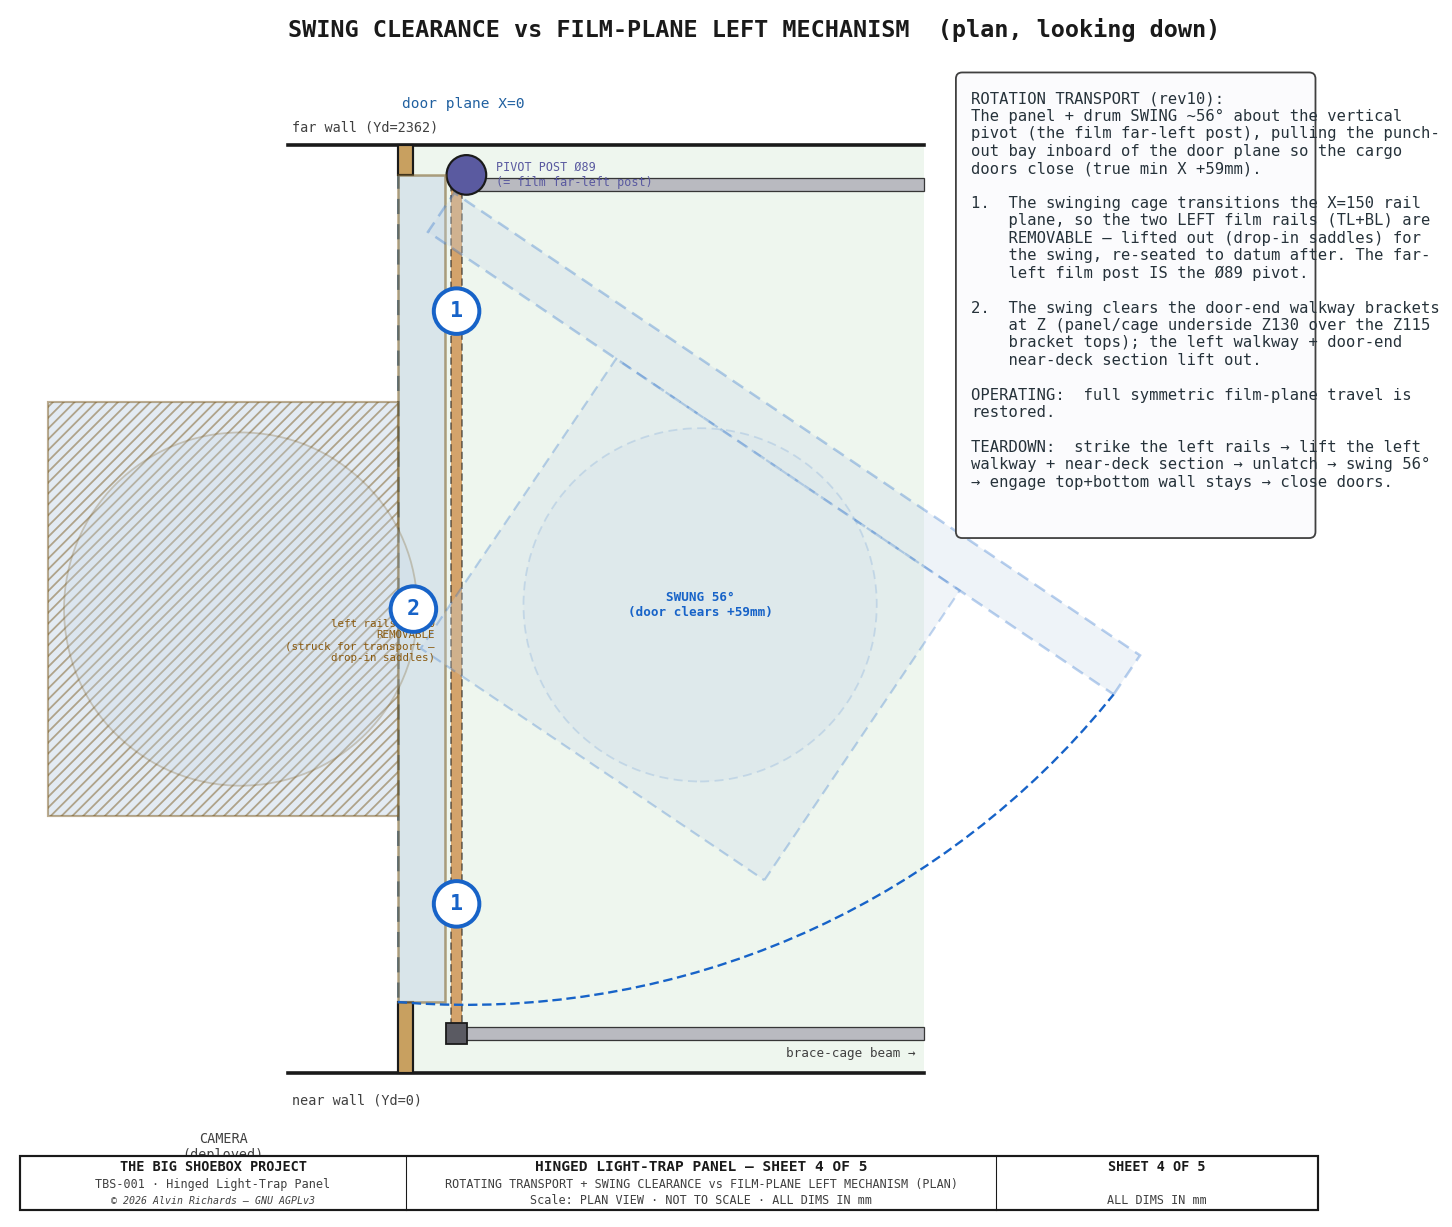
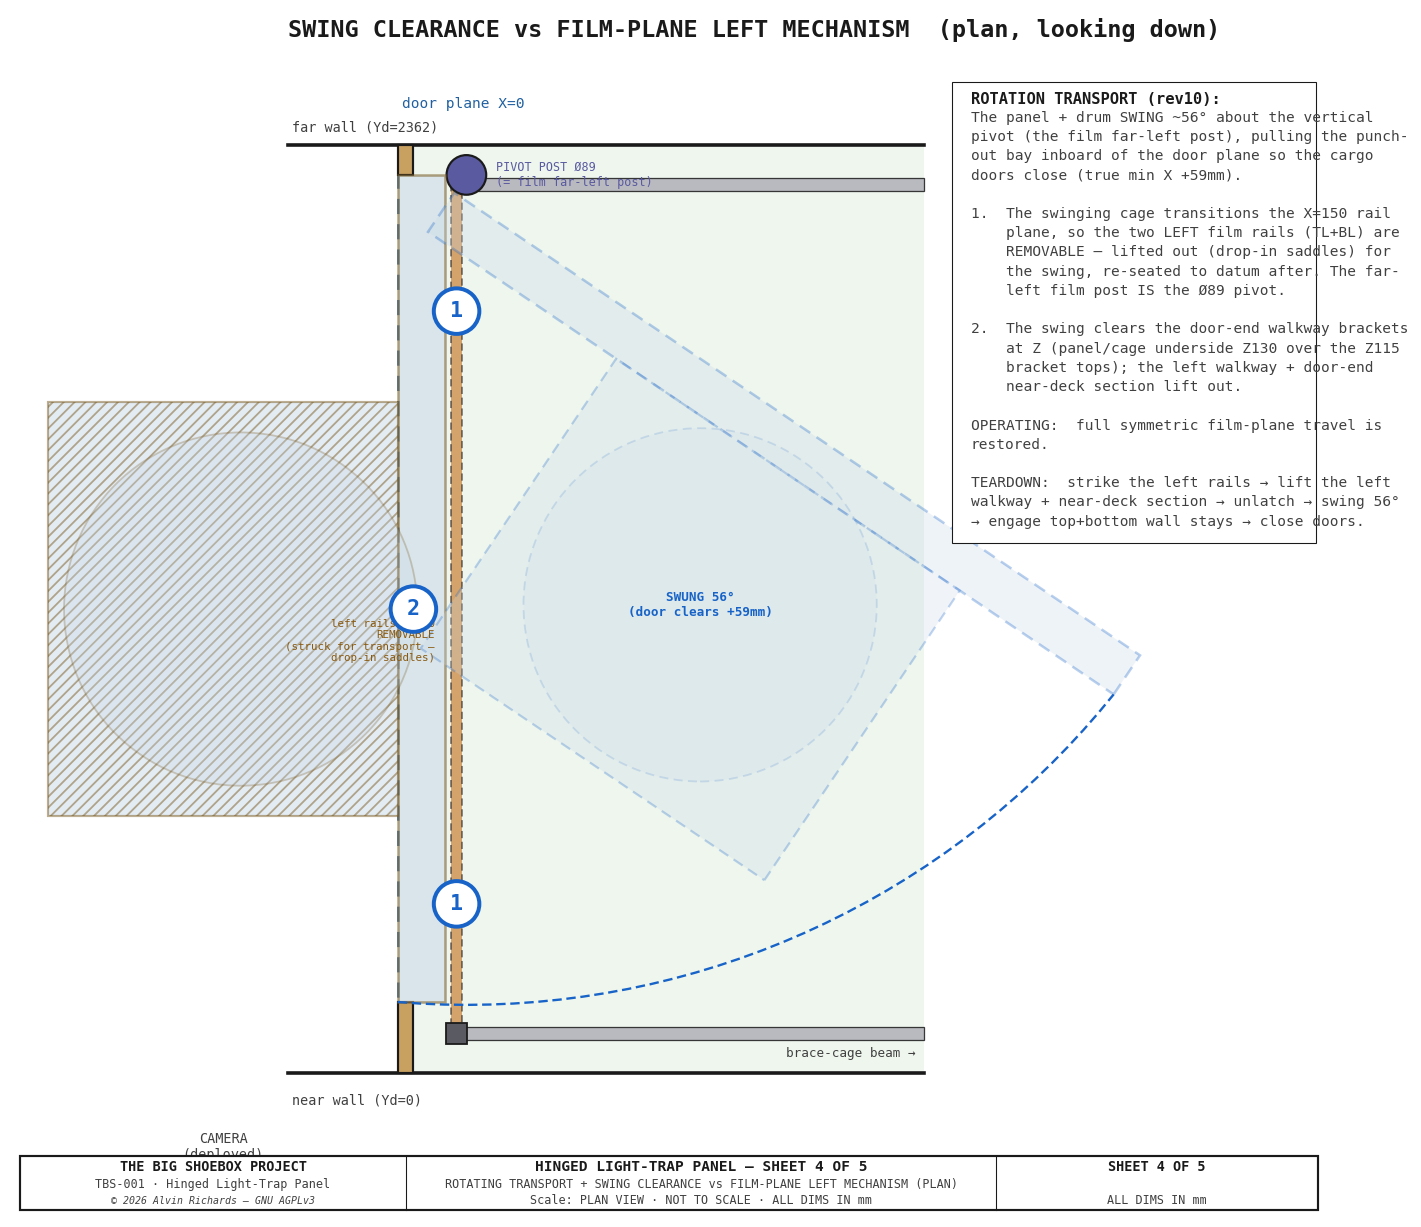
hingepanel sheet 4: convert the rotation-transport notes to draw_notes()
The right-side notes were hand-rolled (a single ax.text mega-string in a manual
FancyBboxPatch, plain non-bold title) instead of the standard draw_notes() block.
Convert to a notes list + draw_notes() call so it matches every other sheet — bordered
box, bold title line, consistent spacing (skill rules 19-27).

diff --git a/src/generators/generate_hingepanel_diagram.py b/src/generators/generate_hingepanel_diagram.py
@@ -1388,7 +1388,7 @@ def sheet5():
     ax.plot([-130, 2130], [660, 660], color=C_DIM, lw=1.0, ls=(0, (6, 4)), zorder=3)
 
     # ── PANEL A — person fit ──
-    ax.text(-110, 1230, "A.  PERSON FIT  —  open Ø850 bore, no fins", ha="left",
+    ax.text(-110, 1300, "A.  PERSON FIT  —  open Ø850 bore, no fins", ha="left",
             fontsize=12, fontweight="bold", color=C_OUT, **FONT)
     Acx, Acy, s = 470, 940, 0.78
     Rd, ORd = R * s, OR * s
@@ -1399,30 +1399,13 @@ def sheet5():
                          lw=1.3, alpha=0.40, zorder=7))
     ax.text(Acx, Acy, "operator\n~520×330\nfits the bore", fontsize=6.8, color="#16613a",
             **FONT, ha="center", va="center", zorder=8)
-    ax.text(Acx, Acy - Rd - 46, "EXTERIOR (enter)", fontsize=7.5, color=BLUE, **FONT,
-            fontweight="bold", ha="center")
     ax.text(Acx, Acy + Rd + 46, "INTERIOR / walkway (exit)", fontsize=7.5, color=GREEN,
             **FONT, fontweight="bold", ha="center")
-    axv0, ayv0, axv1, ayv1 = 905, 720, 2090, 1190
-    ax.add_patch(FancyBboxPatch((axv0, ayv0), axv1 - axv0, ayv1 - ayv0,
-                                boxstyle="round,pad=6,rounding_size=14",
-                                fc="#EAF6EE", ec=GREEN, lw=1.6, zorder=2))
-    ax.text(axv0 + 26, ayv1 - 34, "VERDICT  ✓  PASS — fits", ha="left", va="center",
-            fontsize=12, fontweight="bold", color=GREEN, **FONT)
-    for i, line in enumerate([
-        "• The four radial fins are GONE — the drum is a single-opening",
-        "  C-shell, so the whole ~Ø850 bore is clear standing space.",
-        f"• Passage ≈ 555mm (the {OD}° opening on the Ø900 housing); a single",
-        "  operator (~520 × 330mm in plan) enters and turns inside.",
-        "• Emergency egress is still the whole panel swinging open.",
-    ]):
-        ax.text(axv0 + 26, ayv1 - 84 - i * 52, line, ha="left", va="center",
-                fontsize=8.6, color="#16361f", **FONT)
 
     # ── PANEL B — light-tight at every rotation ──
     ax.text(-110, 588, "B.  LIGHT-TIGHT AT EVERY ROTATION", ha="left", fontsize=12,
             fontweight="bold", color=C_OUT, **FONT)
-    Bcy, bs = 350, 0.52
+    Bcy, bs = 340, 0.52
     Rd, ORd = R * bs, OR * bs
     for bx, (da, ttl, desc) in zip(
             [370, 1090, 1810],
@@ -1443,17 +1426,19 @@ def sheet5():
             ax.annotate("", xy=(bx, Bcy - ORd * 0.92), xytext=(bx, Bcy - Rd - 24),
                         arrowprops=dict(arrowstyle="-|>", color=AMBER, lw=2.0), zorder=9)
             ax.plot([bx], [Bcy - ORd], marker="x", ms=9, mew=2.4, color=GREEN, zorder=10)
-    ax.add_patch(FancyBboxPatch((-110, -250), 2220, 196,
+    v_x, v_y, v_w, v_h = 920, 950, 1200, 250
+    ax.add_patch(FancyBboxPatch((v_x, v_y), v_w, v_h,
                                 boxstyle="round,pad=6,rounding_size=12",
                                 fc="#EAF6EE", ec=GREEN, lw=1.6, zorder=2))
-    ax.text(-78, -86, "VERDICT  ✓  PASS — no daylight path at any rotation", ha="left",
+    ax.text(v_x + 5, v_y + v_h - 15, "VERDICT  ✓  PASS — no daylight path at any rotation", ha="left",
             va="center", fontsize=12.5, fontweight="bold", color=GREEN, **FONT)
     for i, line in enumerate([
         "The two housing openings are 80° wide and 180° apart, so the 80° drum opening can never reach both at once.",
         "The housing's solid wall always covers the opening the drum isn't aligned with — light enters the bore but",
-        "never exits to the interior. A fixed housing (the panel aperture is no longer relied on as the seal) does the work.",
+        "never exits to the interior. A fixed housing (the panel aperture is no longer relied on as the seal)",
+        "does the work.",
     ]):
-        ax.text(-78, -130 - i * 38, line, ha="left", va="center", fontsize=8.4, color="#16361f", **FONT)
+        ax.text(v_x + 5, v_y + v_h - 55 - i * 42, line, ha="left", va="center", fontsize=8, color="#16361f", **FONT)
 
     title_block(ax, "SHEET 5 OF 5",
                 drawing_title="HINGED LIGHT-TRAP PANEL",
@@ -1546,31 +1531,34 @@ def sheet4():
 
     ax.text(-280, 2640, "SWING CLEARANCE vs FILM-PLANE LEFT MECHANISM  (plan, looking down)",
             fontsize=13, fontweight="bold", color=C_OUT, **FONT)
-    notes = ("ROTATION TRANSPORT (rev10):\n"
-             "The panel + drum SWING ~56° about the vertical\n"
-             "pivot (the film far-left post), pulling the punch-\n"
-             "out bay inboard of the door plane so the cargo\n"
-             "doors close (true min X +59mm).\n\n"
-             "1.  The swinging cage transitions the X=150 rail\n"
-             "    plane, so the two LEFT film rails (TL+BL) are\n"
-             "    REMOVABLE — lifted out (drop-in saddles) for\n"
-             "    the swing, re-seated to datum after. The far-\n"
-             "    left film post IS the Ø89 pivot.\n\n"
-             "2.  The swing clears the door-end walkway brackets\n"
-             "    at Z (panel/cage underside Z130 over the Z115\n"
-             "    bracket tops); the left walkway + door-end\n"
-             "    near-deck section lift out.\n\n"
-             "OPERATING:  full symmetric film-plane travel is\n"
-             "restored.\n\n"
-             "TEARDOWN:  strike the left rails → lift the left\n"
-             "walkway + near-deck section → unlatch → swing 56°\n"
-             "→ engage top+bottom wall stays → close doors.")
-    # notes box raised into the upper-right so it clears the swung panel's near-end
-    # (which sweeps to ~X1824/Yd964) — rule 35: never sit text on drawing geometry.
-    ax.add_patch(FancyBboxPatch((1430, 1370), 900, 1170,
-                                boxstyle="round,pad=8,rounding_size=16",
-                                fc="#FBFBFD", ec=C_DIM, lw=1.0, zorder=20))
-    ax.text(1460, 2500, notes, fontsize=8.6, color="#26323a", **FONT, va="top", zorder=21)
+    notes = [
+        "ROTATION TRANSPORT (rev10):",
+        "The panel + drum SWING ~56° about the vertical",
+        "pivot (the film far-left post), pulling the punch-",
+        "out bay inboard of the door plane so the cargo",
+        "doors close (true min X +59mm).",
+        "",
+        "1.  The swinging cage transitions the X=150 rail",
+        "    plane, so the two LEFT film rails (TL+BL) are",
+        "    REMOVABLE — lifted out (drop-in saddles) for",
+        "    the swing, re-seated to datum after. The far-",
+        "    left film post IS the Ø89 pivot.",
+        "",
+        "2.  The swing clears the door-end walkway brackets",
+        "    at Z (panel/cage underside Z130 over the Z115",
+        "    bracket tops); the left walkway + door-end",
+        "    near-deck section lift out.",
+        "",
+        "OPERATING:  full symmetric film-plane travel is",
+        "restored.",
+        "",
+        "TEARDOWN:  strike the left rails → lift the left",
+        "walkway + near-deck section → unlatch → swing 56°",
+        "→ engage top+bottom wall stays → close doors.",
+    ]
+    # Standard bordered notes block, raised into the upper-right so it clears the swung
+    # panel's near-end (which sweeps to ~X1824/Yd964) — rule 35: never sit text on geometry.
+    draw_notes(ax, notes, 1460, 2500, spacing=49, fs=8.0, width=830, font=FONT)
 
     title_block(ax, "SHEET 4 OF 5",
                 drawing_title="HINGED LIGHT-TRAP PANEL",
